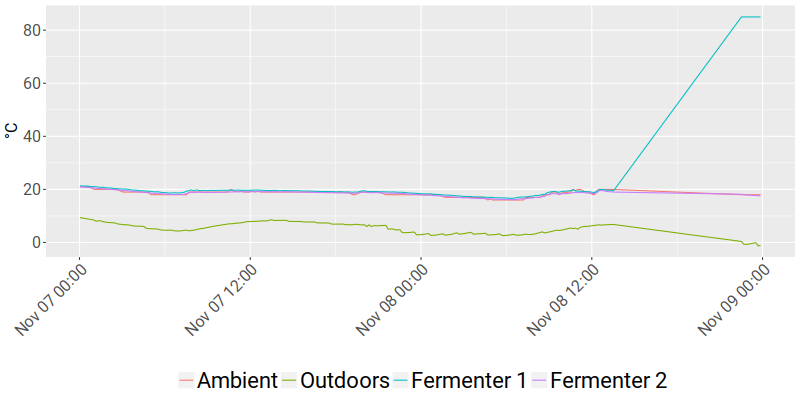
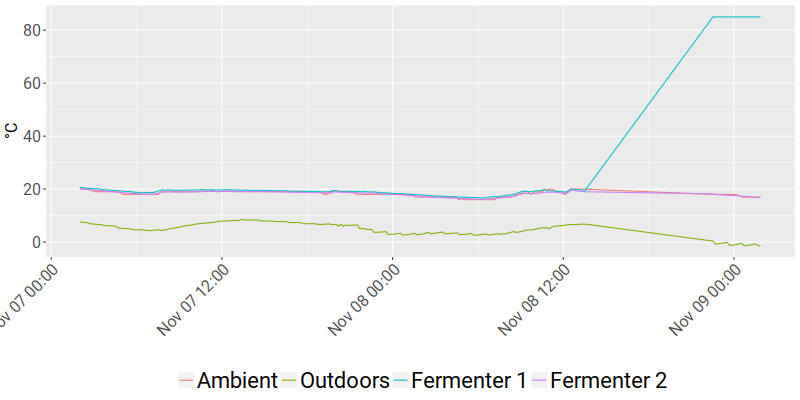
Update live temperature on site

diff --git a/temperature.js b/temperature.js
@@ -1,1 +1,1 @@
-document.write("<h4>Inside Temperature: 18.0°C</h4><h4>Outside Temperature: -1.17°C</h4><h4>Fermenter 1 Temperature: 85.0°C</h4><h4>Fermenter 2 Temperature: 17.56°C</h4><h4>Inside Humidity: 48.62%</h4><h4>Outside Humidity: 86.0%</h4><br>Last update: 2017-11-08 23:51:12");
+document.write("<h4>Inside Temperature: 17.0°C</h4><h4>Outside Temperature: -1.34°C</h4><h4>Fermenter 1 Temperature: 85.0°C</h4><h4>Fermenter 2 Temperature: 16.81°C</h4><h4>Inside Humidity: 48.6%</h4><h4>Outside Humidity: 87.0%</h4><br>Last update: 2017-11-09 01:51:35");
